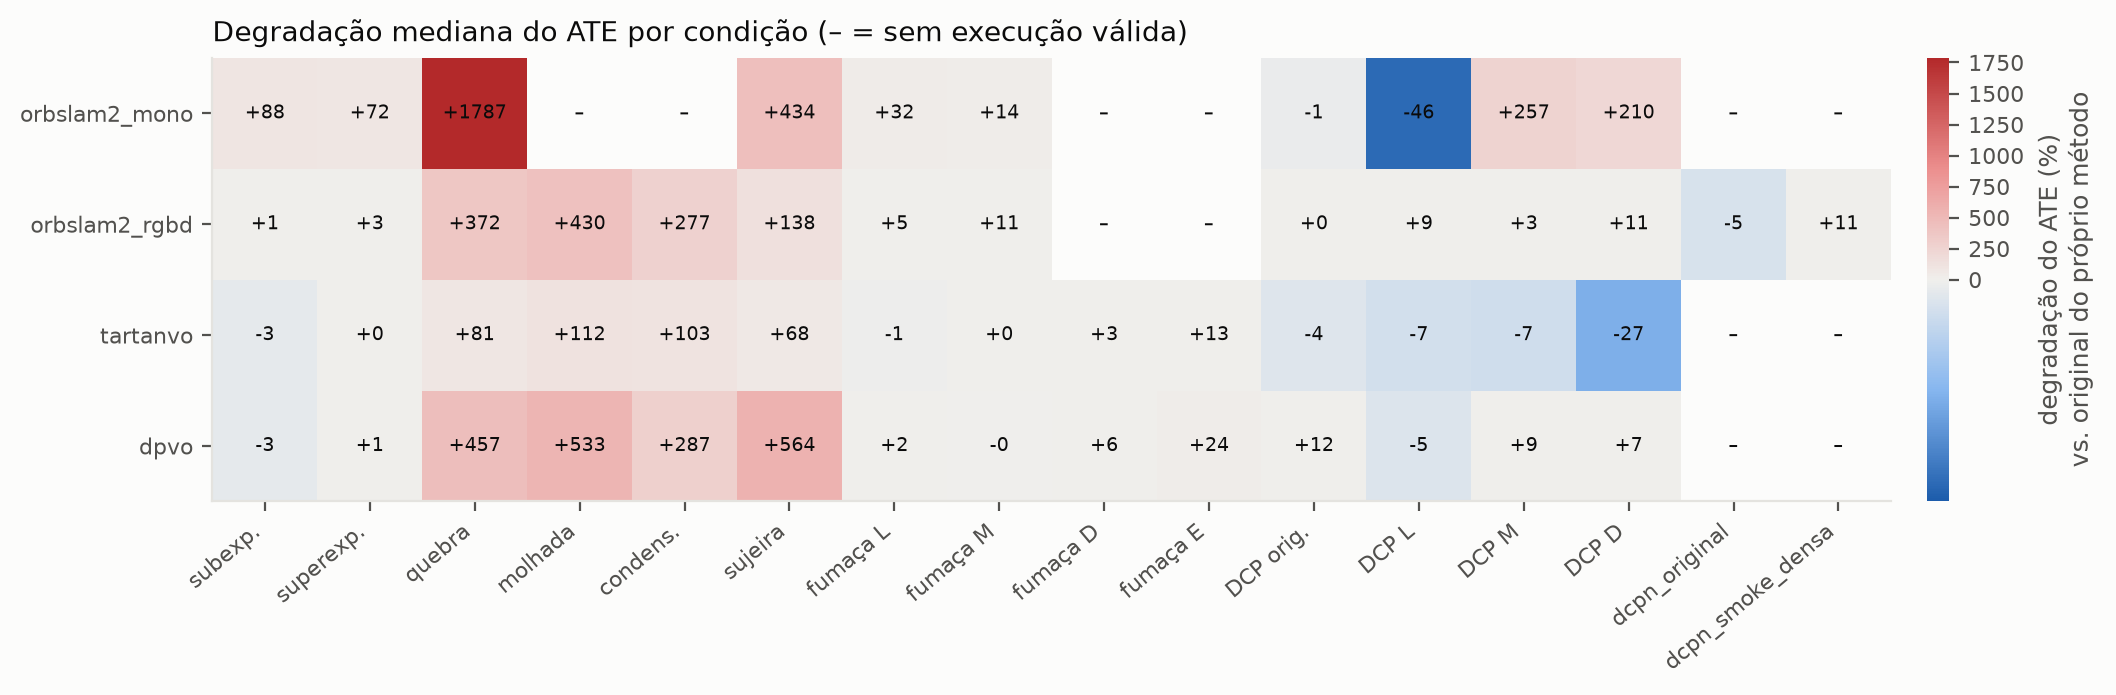
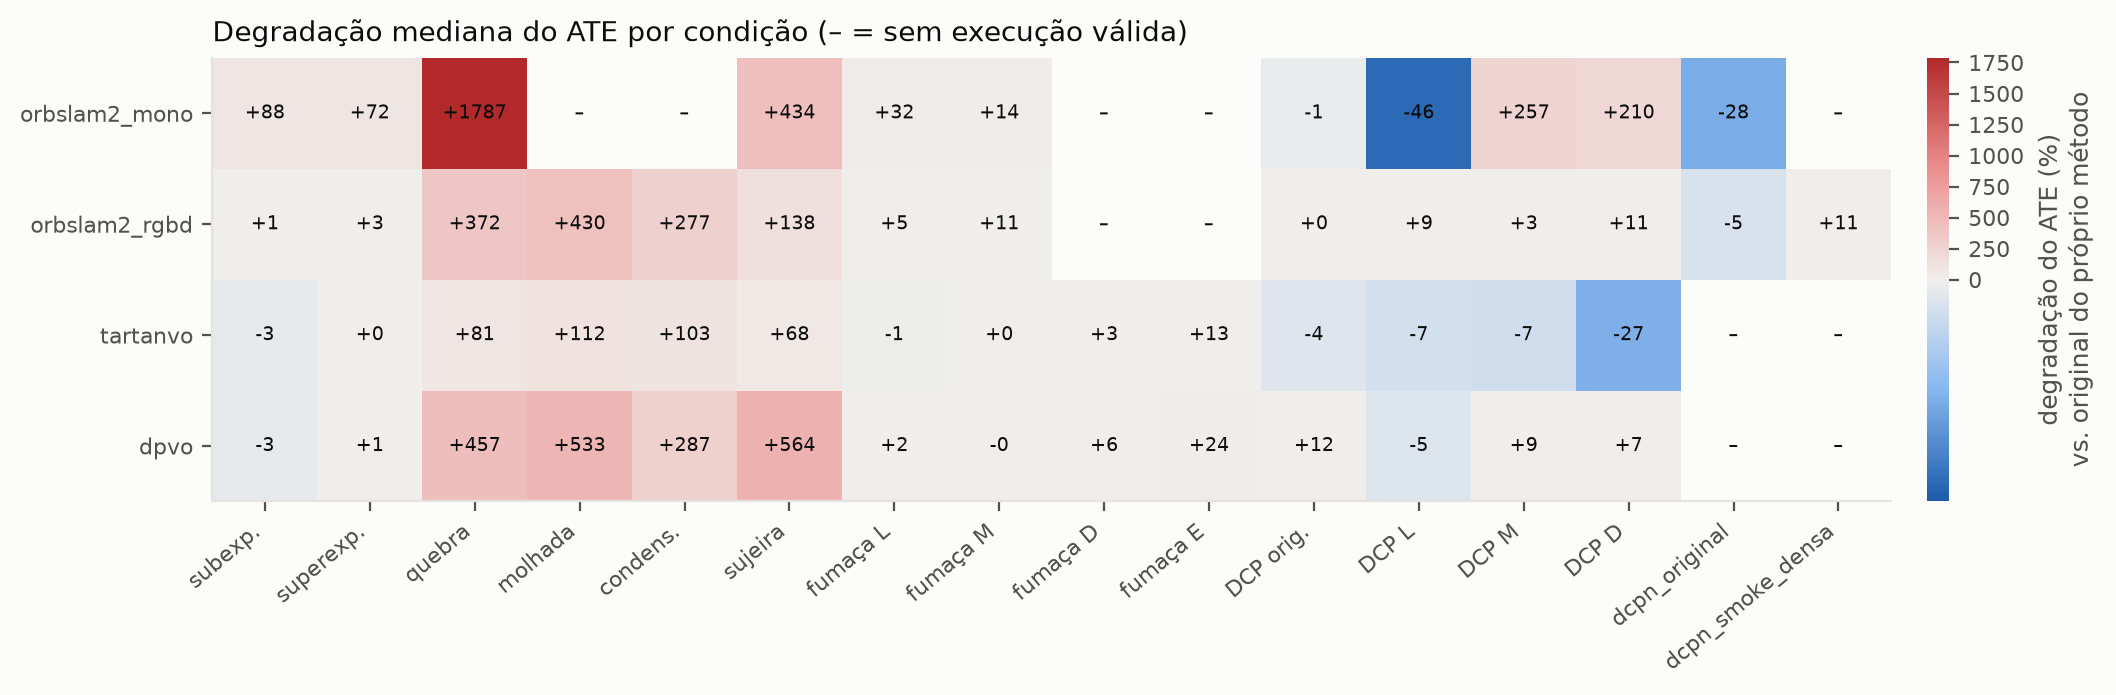
NATASHA-46: resultado do teste de normalização de exposição no ORB-SLAM2 monocular (35 execuções): 7/35 válidas, contra 13/35 do DCP simples e 26/35 da original; o ganho elimina a perda da seq. 11 mas impede a inicialização em 4 sequências, então o escurecimento não explica o custo no monocular; res

Changed region(s): [[0.7798, 0.0604, 0.8422, 0.2417]]

diff --git a/docs/artigo_esqueleto.md b/docs/artigo_esqueleto.md
@@ -2,7 +2,7 @@
 
 Jira: NATASHA-20. **Venue (decisão de trabalho de 01/11, delegada pela Natasha; o orientador pode trocar):** alvo principal **SBR/LARS 2027**; alternativa **SIBGRAPI 2027**, se o resultado de dehazing ganhar peso. Os ciclos de 2026 já fecharam: o LARS 2026 acontece em 4–6/11 em Bogotá, com prazo de 12/08/2026 na chamada do [EasyChair](https://easychair.org/cfp/LARS2026), que pede 4–6 páginas em formato IEEE (a chamada do SBR 2026 não apareceu na busca); o SIBGRAPI 2025 teve prazo em 23/06/2025 e a chamada de 2027 ainda não foi publicada. **Prazos de 2027 não verificados**; nos anos anteriores ficaram entre junho e agosto. Se o limite de 4–6 páginas se repetir, o texto de 6–8 páginas precisa cortar as Seções 2 e 3. Conferir na chamada se a submissão é anônima antes de tornar o repositório público.
 
-**Estado deste rascunho.** Os números abaixo foram conferidos em 31/10 contra `experiments/results/{metrics,summary,stats_*}.csv` (3.410 execuções avaliadas: 2.720 da matriz principal, 112 da fumaça extrema e 578 do DCP: 68 do piloto, 450 do completo e 60 do teste de exposição). Referências usam a numeração da proposta (lista em `docs/relatorio_parcial.md` e `docs/leituras/README.md`); o que não tem número ali está marcado **[ref a conferir]**. Marcadores **[PENDENTE]** dependem de dado que ainda não existe. Decisões de análise que ainda não passaram pelo orientador estão em `docs/protocolo_experimental.md` §10 (provisórias).
+**Estado deste rascunho.** Os números abaixo foram conferidos em 31/10 contra `experiments/results/{metrics,summary,stats_*}.csv` (3.445 execuções avaliadas: 2.720 da matriz principal, 112 da fumaça extrema e 613 do DCP: 68 do piloto, 450 do completo, 60 do teste de exposição no RGB-D e 35 no monocular). Referências usam a numeração da proposta (lista em `docs/relatorio_parcial.md` e `docs/leituras/README.md`); o que não tem número ali está marcado **[ref a conferir]**. Marcadores **[PENDENTE]** dependem de dado que ainda não existe. Decisões de análise que ainda não passaram pelo orientador estão em `docs/protocolo_experimental.md` §10 (provisórias).
 
 ## Título provisório
 *Smoke, Lenses and Learned Odometry: A Statistically Grounded Robustness Study of Classical and Deep Visual Odometry under Real Lens Failures and Physically Calibrated Smoke*
@@ -130,7 +130,7 @@ ATE em metros, mediana das sementes das execuções válidas. Fonte: `results/me
 | RGB-D | 55 → 50 (68,8% → 62,5%) | 50 → 49 (62,5% → 61,3%) | **0 → 50 (0% → 62,5%)** |
 | monocular | 26 → 13 (32,5% → 16,3%) | 11 → 11 (13,8% → 13,8%) | 0 → 7 (0% → 8,8%) |
 
-*RGB-D:* na densa o DCP devolve o rastreamento em 10 das 11 sequências em que o método rastreia na original (50/55 execuções, contra 55/55); a 16 não volta e também falha com o DCP sem fumaça. As 5 sequências que já falham na original (02, 08, 10, 14, 15) continuam sem execução válida. O erro, porém, não volta ao da imagem limpa: nas 10 sequências recuperadas o ATE passa de 0,255 para 0,324 m (diferença percentual mediana +11%, 8 de 10 piores; p = 0,014 sem correção, comparação pós-hoc). Na imagem limpa o ATE não muda (0,255 → 0,252 m, p = 0,557), mas o sucesso cai 6,3 pontos por causa da seq. 16, e na moderada não há efeito (p = 0,131; Bonferroni 0,262). Um teste exploratório em 6 sequências (60 execuções) mostrou que essa perda na imagem limpa vem do escurecimento causado pelo DCP (luminância média de ~128 para ~64): com um ganho de exposição por sequência o RGB-D volta a 30/30 execuções válidas na imagem limpa, mas na fumaça densa o ganho não muda o resultado (25/30; ATE ainda +14% acima da limpa) e satura 6 a 14% dos pixels (`protocolo_experimental.md` §10.7). *Monocular:* o DCP não recupera o método na densa (7/80, em duas sequências; 27 das 80 execuções ainda não inicializam) e o prejudica na imagem limpa (o sucesso cai pela metade; 4 das 7 sequências que rastreavam perdem todas as execuções). *DPVO e TartanVO:* só o piloto da seq. 09 (n = 1), sem efeito fora da variação das sementes; como mantêm 100% de sucesso, não há falha a corrigir e o DCP completo não foi rodado neles. O DCP é, portanto, uma mitigação para o RGB-D na fumaça densa, não uma correção geral (hipótese de `protocolo_experimental.md` §10.7 parcialmente confirmada). `results/stats_dcp.csv`.
+*RGB-D:* na densa o DCP devolve o rastreamento em 10 das 11 sequências em que o método rastreia na original (50/55 execuções, contra 55/55); a 16 não volta e também falha com o DCP sem fumaça. As 5 sequências que já falham na original (02, 08, 10, 14, 15) continuam sem execução válida. O erro, porém, não volta ao da imagem limpa: nas 10 sequências recuperadas o ATE passa de 0,255 para 0,324 m (diferença percentual mediana +11%, 8 de 10 piores; p = 0,014 sem correção, comparação pós-hoc). Na imagem limpa o ATE não muda (0,255 → 0,252 m, p = 0,557), mas o sucesso cai 6,3 pontos por causa da seq. 16, e na moderada não há efeito (p = 0,131; Bonferroni 0,262). Um teste exploratório em 6 sequências (60 execuções) mostrou que essa perda na imagem limpa vem do escurecimento causado pelo DCP (luminância média de ~128 para ~64): com um ganho de exposição por sequência o RGB-D volta a 30/30 execuções válidas na imagem limpa, mas na fumaça densa o ganho não muda o resultado (25/30; ATE ainda +14% acima da limpa) e satura 6 a 14% dos pixels (`protocolo_experimental.md` §10.7). *Monocular:* o DCP não recupera o método na densa (7/80, em duas sequências; 27 das 80 execuções ainda não inicializam) e o prejudica na imagem limpa (o sucesso cai pela metade; 4 das 7 sequências que rastreavam perdem todas as execuções). A perda se concentra nas seq. 07 (inicialização tardia, do quadro 112 para o 582) e 11 (perda do rastreamento por volta do quadro 500), que somam 10 das 13 execuções perdidas. O escurecimento, que explica o RGB-D, não explica o monocular: o mesmo ganho de exposição elimina a perda da seq. 11, mas impede a inicialização em quatro sequências (03, 05, 07 e 09) e o monocular fica com 7/35 execuções válidas, contra 13/35 do DCP simples e 26/35 da original (35 execuções, 7 sequências escolhidas pelo problema observado; `protocolo_experimental.md` §10.7). A causa do custo no monocular fica em aberto. *DPVO e TartanVO:* só o piloto da seq. 09 (n = 1), sem efeito fora da variação das sementes; como mantêm 100% de sucesso, não há falha a corrigir e o DCP completo não foi rodado neles. O DCP é, portanto, uma mitigação para o RGB-D na fumaça densa, não uma correção geral (hipótese de `protocolo_experimental.md` §10.7 parcialmente confirmada). `results/stats_dcp.csv`.
 
 **5.7 Custo (Tab. 4).** Medianas na condição original: DPVO 29,3 ms por quadro (pico de GPU 710 MiB); TartanVO 22,1 ms com 8 CPUs e 80,3 ms com 2 (237 MiB); ORB-SLAM2 12,9 ms (RGB-D) e 9,5 ms (mono), só tracking. Os tempos não são comparáveis entre famílias (o ORB-SLAM2 mede só o tracking) e o do TartanVO depende do `--cpus` do container.
 
@@ -173,12 +173,12 @@ Na matriz de 2.720 execuções do QueensCAMP e nas condições exploratórias, a
 4. **ORB-SLAM2 monocular:** 68% das execuções não têm resultado válido já na original; o ATE vem de poucas sequências e o método não é ranqueado.
 5. **TartanVO:** só 2 repetições (determinístico); tempo por quadro depende de `--cpus`.
 6. **Alinhamento Sim(3) para todos** (decisão de trabalho, a confirmar): o veredito de robustez não muda com SE(3) no RGB-D nem com escala por passo nos monoculares; a magnitude muda (ex.: TartanVO em `breakage`, 81% com Sim(3) e 233% com escala por passo).
-7. **Condições exploratórias** (extrema, DCP) ficam fora das famílias de Bonferroni. O DCP foi avaliado só no ORB-SLAM2 (DPVO e TartanVO só numa sequência), em um dataset, com estimativa de A por sequência e sem ajuste de parâmetros; o ATE pós-hoc do RGB-D recuperado não foi pré-registrado; a perda do RGB-D na seq. 16 sem fumaça é explicada pelo escurecimento (teste exploratório em 6 sequências, §10.7), mas a piora do monocular na imagem limpa não foi investigada.
+7. **Condições exploratórias** (extrema, DCP) ficam fora das famílias de Bonferroni. O DCP foi avaliado só no ORB-SLAM2 (DPVO e TartanVO só numa sequência), em um dataset, com estimativa de A por sequência e sem ajuste de parâmetros; o ATE pós-hoc do RGB-D recuperado não foi pré-registrado; a perda do RGB-D na seq. 16 sem fumaça é explicada pelo escurecimento (teste exploratório em 6 sequências, §10.7), mas a piora do monocular na imagem limpa não é explicada pelo escurecimento (o ganho de exposição a agrava, 7/35 contra 13/35 do DCP simples, §10.7) e a causa fica em aberto.
 8. **Não feito:** teste estatístico por estrato (só descrição, §10.10); BRISQUE; pico de RAM por execução; gap de domínio (TartanAir sintético × real).
 9. As decisões de §10 do protocolo foram tomadas sem revisão do orientador.
 
 ## Pendências para fechar o artigo
-- ~~DCP completo em ORB-SLAM2 (NATASHA-43) → 5.6 e Resumo~~ feito em 01/11; falta decidir com o orientador se o DCP entra na mensagem central e na conclusão; a seq. 16 foi explicada (escurecimento, §10.7); falta investigar a piora do monocular.
+- ~~DCP completo em ORB-SLAM2 (NATASHA-43) → 5.6 e Resumo~~ feito em 01/11; falta decidir com o orientador se o DCP entra na mensagem central e na conclusão; a seq. 16 foi explicada (escurecimento, §10.7); a piora do monocular foi investigada em 02/11 e a causa segue em aberto (§10.7).
 - Confirmação do orientador: venue, mensagem central, decisões de §10 (NATASHA-23).
 - Referências: Koschmieder e Umeyama conferidos em 01/11 (`trabalhos_relacionados.md` §6; só a paginação de Koschmieder pede checagem no original); SAL, Tan et al., Ding et al. e ForestVO ainda lidos só pelo resumo; texto de trabalhos relacionados com itens marcados † (NATASHA-37).
 - Dados de campo e EKF (NATASHA-13/14): bloqueio externo (coleta física).

diff --git a/docs/protocolo_experimental.md b/docs/protocolo_experimental.md
@@ -195,6 +195,17 @@ Na **moderada** o DCP não tem efeito mensurável: RGB-D 50 → 49/80, ATE parea
 
 **Hipótese (registrada antes de gerar e rodar):** a perda do mono em 07 e 11 vem do mesmo escurecimento do RGB-D (menos contraste, menos cantos detectados em trechos que já têm pouca textura), então o ganho de exposição por sequência (`exposure_match: "sequence"`, código inalterado) a elimina. **Teste:** `dcpn_original` gerado para as sequências 05, 07 e 11 (01, 03, 09 e 16 já existem, ganhos de 1,66 a 2,25), ORB-SLAM2 monocular, sequências 01, 03, 05, 07, 09, 11 e 16, 5 sementes = 35 execuções, só imagem limpa, mesma configuração de `orbslam2_mono`. **Critério principal** nas sequências 07 e 11 juntas (10 execuções; original 10/10, DCP simples 0/10): **confirma** se `dcpn_original` tiver ≥ 8/10 válidas; **refuta** se ≤ 2/10; **parcial** entre 3 e 7. Também gravo, por execução, o quadro de inicialização e o último quadro rastreado: na 11 a hipótese prevê que a perda por volta do quadro 500 desaparece (como a fração rastreada é contínua, vale mais que o limiar). As outras cinco sequências não entram no critério: 05 e 16 são bimodais na original; 01, 03 e 09 servem de controle para ver se o ganho cria perda nova (esperado: ≥ 11/15 válidas, a original e o DCP simples têm 13/15). **Não testado:** fumaça no monocular, ganho por quadro, outros parâmetros do DCP, DPVO e TartanVO (sem perda com o DCP). Se refutar, as próximas explicações (não testadas aqui) são variação de quadro a quadro da transmissão e amplificação de ruído nos trechos escuros. As sequências foram escolhidas pelo problema observado, então o teste não estima o efeito nas 16.
 
+**Resultado do teste do monocular (02/11; 35 execuções, sem falha de infraestrutura; NATASHA-46).** ORB-SLAM2 monocular, `dcpn_original`, sequências 01, 03, 05, 07, 09, 11 e 16, 5 sementes. Execuções válidas de 35: original 26; `dcp_original` 13; **`dcpn_original` 7**. Por sequência (válidas de 5; original / DCP simples / DCP com ganho): 01 3/4/1; 03 5/5/0; 05 1/0/0; 07 5/0/0; 09 5/4/0; 11 5/0/4; 16 2/0/2. Das 35, 15 terminaram `ok` e 20 `not_initialized` (as sequências 03, 05, 07 e 09, 5 de 5 cada). Contra os critérios gravados antes de rodar:
+
+- **(a) Critério principal, sequências 07 e 11: 4/10, parcial pela regra (3 a 7), mas os 4 vêm da 11.** Na 11 a perda por volta do quadro 500 **desaparece** (nenhuma semente perde o rastreamento; último quadro rastreado 1436), porém a inicialização passa para o quadro 522 (mediana; original 101, DCP simples 140) e a fração rastreada fica em 0,64 (0,16 em uma semente) contra 0,93 na original. Na 07 as 5 sementes **nunca inicializam** (com o DCP simples inicializavam, no quadro 582).
+- **(b) Controles 01, 03 e 09: 1/15, falha** (esperado ≥ 11/15; original e DCP simples têm 13/15). O ganho cria perda nova: a 03 e a 09 deixam de inicializar (0/5 e 0/5) e a 01 cai para 1/5.
+- **Sobre as 20 execuções `not_initialized`:** todas terminam com código de saída 139 depois de gravar o `frames.csv` completo (por exemplo 2.029 linhas na seq. 03, estado "não inicializado" em 2.025), que é o padrão das 441 execuções do monocular sem inicialização na matriz inteira; não é falha de infraestrutura. Nos logs do ORB-SLAM2 o mapa inicial criado tem menos pontos com o ganho: mediana de 64, 84 e 82 pontos nas seq. 03, 07 e 09, contra 112, 107 e 112 na original e 83, 94 e 117 no DCP simples. O ORB-SLAM2 descarta a inicialização (`Wrong initialization, reseting`, `Tracking.cc` na imagem) quando o quadro-chave atual rastreia menos de 100 pontos do mapa, então um mapa inicial com menos de 100 pontos nunca passa.
+- **Medição fora do SLAM não explica.** Com a mesma medida da §10.7 (ORB com 1000 pontos, pares a 10 quadros, matriz fundamental com RANSAC), o ganho devolve os pares consistentes da original na maioria dos quadros amostrados (seq. 09, quadro 500: 126, contra 133 da original e 62 do DCP simples; seq. 03, quadro 500: 236, contra 222 e 219). Isso não prevê a falha de inicialização. A exceção é um trecho saturado (seq. 03, quadro 200: 42 contra 58 e 59, com 32,5% dos pixels ≥ 250). A fração de pixels saturados nos quadros amostrados é de 5 a 32% na seq. 03 e de 1,7 a 17,5% na 09 com o ganho, contra 0,1 a 2,0% na original.
+
+**Leitura.** A hipótese de que o escurecimento explica o custo do DCP no monocular **não se confirma**. O ganho elimina a perda da seq. 11 por volta do quadro 500, único caso em que o escurecimento parece suficiente, não resolve a 07 e **piora o monocular** em quatro sequências (07, 03, 09 e 01), em três delas por falta de inicialização, de modo que o mecanismo do RGB-D (escurecimento, §10.7) não vale para o monocular em geral. A causa do custo do DCP no monocular fica **em aberto**. Candidatos não testados: a saturação que o ganho introduz, o ruído amplificado pela divisão pela transmissão e a variação da transmissão de um quadro para o outro; a relação com a saturação é uma suspeita, não uma medida (o teste fora do SLAM só a mostra em um quadro). O que se pode afirmar: (i) a perda do DCP simples se concentra em duas sequências com mecanismos diferentes (inicialização tardia na 07, perda por volta do quadro 500 na 11) e as outras são bimodais já na original; (ii) o limiar de 0,5 da fração rastreada deixa a 07 (0,44 a 0,50) e a 16 (0,52 na original) na beira, então o sucesso binário exagera a diferença nessas duas.
+
+**Limites.** Sete sequências escolhidas pelo problema observado, 5 sementes, só ORB-SLAM2 monocular e só imagem limpa; a mesma configuração de ganho (única por sequência) do RGB-D, sem variar o ganho; só 7 execuções válidas, então o ATE da `dcpn_original` não é comparável (`stats_dcp.csv` traz n = 3 pares, sem p). **Decisão:** o resultado oficial do DCP continua sendo o do DCP simples; a normalização de exposição não é recomendada para o monocular; o artigo registra que o DCP prejudica o monocular na imagem limpa, com a perda concentrada em duas sequências e a causa não explicada.
+
 ### 10.8 Critério de robustez: X = 50% mantido
 Variando X entre 25%, 50% e 100% (`stats_analysis.py --max-degradation`), **38 das 40 combinações algoritmo × condição mantêm o veredito**. As duas que mudam são o TartanVO em `breakage` (81% de degradação mediana) e `dirt` (68%), que só viram robustas com X = 100. O 50% fica no meio de uma faixa estável (nenhum veredito muda entre 25% e 50%), então a escolha não decide nenhuma conclusão do artigo.
 

diff --git a/README.md b/README.md
@@ -34,8 +34,8 @@ Dados brutos, corpus SQLite, PDFs, saídas e ambientes virtuais **não** são ve
 
 ## Estado do projeto (01/11/2026)
 
-- **Execuções concluídas:** 3.410 avaliadas. Matriz principal de 2.720 (ORB-SLAM2 monocular e RGB-D, TartanVO, DPVO × 16 sequências do QueensCAMP × 10 condições), 112 de uma fumaça extrema e 578 de dehazing (DCP): piloto na seq. 09, execução completa no ORB-SLAM2 e teste de normalização de exposição. Resultados e decisões de análise em [`docs/protocolo_experimental.md`](docs/protocolo_experimental.md) §10; rascunho do artigo, com tabelas, em [`docs/artigo_esqueleto.md`](docs/artigo_esqueleto.md).
-- **DCP no ORB-SLAM2:** devolve o rastreamento ao RGB-D na fumaça densa (sucesso de 0% para 62,5%), não recupera o monocular e o prejudica na imagem limpa (§10.7).
+- **Execuções concluídas:** 3.445 avaliadas. Matriz principal de 2.720 (ORB-SLAM2 monocular e RGB-D, TartanVO, DPVO × 16 sequências do QueensCAMP × 10 condições), 112 de uma fumaça extrema e 613 de dehazing (DCP): piloto na seq. 09, execução completa no ORB-SLAM2 e testes de normalização de exposição (RGB-D e monocular). Resultados e decisões de análise em [`docs/protocolo_experimental.md`](docs/protocolo_experimental.md) §10; rascunho do artigo, com tabelas, em [`docs/artigo_esqueleto.md`](docs/artigo_esqueleto.md).
+- **DCP no ORB-SLAM2:** devolve o rastreamento ao RGB-D na fumaça densa (sucesso de 0% para 62,5%), não recupera o monocular e o prejudica na imagem limpa; no RGB-D o custo vem do escurecimento, no monocular a causa está em aberto (§10.7).
 - **Bloqueado por coleta física:** dataset piloto amazônico e EKF (NATASHA-13/14).
 - As decisões de análise de §10 são de trabalho e **ainda não foram revisadas pelo orientador**.
 

diff --git a/docs/publicacao.md b/docs/publicacao.md
@@ -39,7 +39,7 @@ Licenças dos algoritmos que as imagens Docker baixam (conferidas dentro das ima
 1. ~~Orientador e UFAM aprovam a licença~~ **Licenças aplicadas em 01/11** (seção 2); falta só a confirmação da UFAM/SAGRES-Pro.
 2. ~~Conferir a licença do QueensCAMP~~ **Feito em 01/11** (dados sem licença declarada; nada redistribuído).
 3. Revisar o que entra: `docs/leituras/` (os fichamentos "precisam ser revisados pela Natasha antes de virar texto", `docs/leituras/README.md`), `docs/analise_concorrentes_2026.md` (avalia trabalhos de terceiros; revisar o tom), `docs/plano_inicial.md` e `docs/relatorio_parcial.md` (planejamento interno).
-4. ~~Copiar os CSV e as figuras finais para `experiments/resultados_publicados/`~~ **Feito em 01/11** (3.410 execuções, atualizado depois do teste de exposição do DCP; sem a figura com quadros reais do SubT-MRS). Se o orientador mudar algo de §10, regenerar e copiar de novo.
+4. ~~Copiar os CSV e as figuras finais para `experiments/resultados_publicados/`~~ **Feito em 01/11** (3.445 execuções, atualizado depois dos testes de exposição do DCP no RGB-D e no monocular; sem a figura com quadros reais do SubT-MRS). Se o orientador mudar algo de §10, regenerar e copiar de novo.
 5. Preencher "Como citar" no README quando houver artigo ou relatório; marcar uma versão (por exemplo `v1.0`) e, se quiserem um DOI, arquivar essa versão num repositório de preprints/dados.
 6. Decidir sobre o nome do servidor e o link do Jira (seção 1).
 7. Só então mudar a visibilidade do repositório no GitHub. **Não feito.**

diff --git a/experiments/resultados_publicados/README.md b/experiments/resultados_publicados/README.md
@@ -1,10 +1,10 @@
 # Resultados publicáveis (cópia de `experiments/results/`, 01/11/2026)
 
-Cópia dos CSV agregados e das figuras próprias, gerados por `scripts/evaluate.py`, `scripts/stats_analysis.py` e `scripts/figures.py` sobre **3.410 execuções** (2.720 da matriz principal, 112 da fumaça extrema e 578 do DCP) no código do commit que acompanha esta cópia. `results/` continua fora do git; esta pasta é a cópia versionada e só deve ser atualizada ao regenerar tudo.
+Cópia dos CSV agregados e das figuras próprias, gerados por `scripts/evaluate.py`, `scripts/stats_analysis.py` e `scripts/figures.py` sobre **3.445 execuções** (2.720 da matriz principal, 112 da fumaça extrema e 613 do DCP) no código do commit que acompanha esta cópia. `results/` continua fora do git; esta pasta é a cópia versionada e só deve ser atualizada ao regenerar tudo.
 
 | Arquivo | Conteúdo |
 |---|---|
-| `metrics.csv` | uma linha por execução (3.410): status, rastreamento, ATE (Sim(3), SE(3), escala por passo), RPE, tempo, memória de GPU |
+| `metrics.csv` | uma linha por execução (3.445): status, rastreamento, ATE (Sim(3), SE(3), escala por passo), RPE, tempo, memória de GPU |
 | `summary.csv` | agregado por algoritmo, sequência e condição |
 | `stats_vs_original.csv`, `stats_pairwise.csv`, `stats_robustness.csv` | testes pareados (Wilcoxon, Bonferroni), comparações entre métodos e critério de robustez |
 | `stats_exploratory.csv`, `stats_dcp.csv` | condições exploratórias (fumaça extrema, DCP) e DCP contra a condição de origem |
